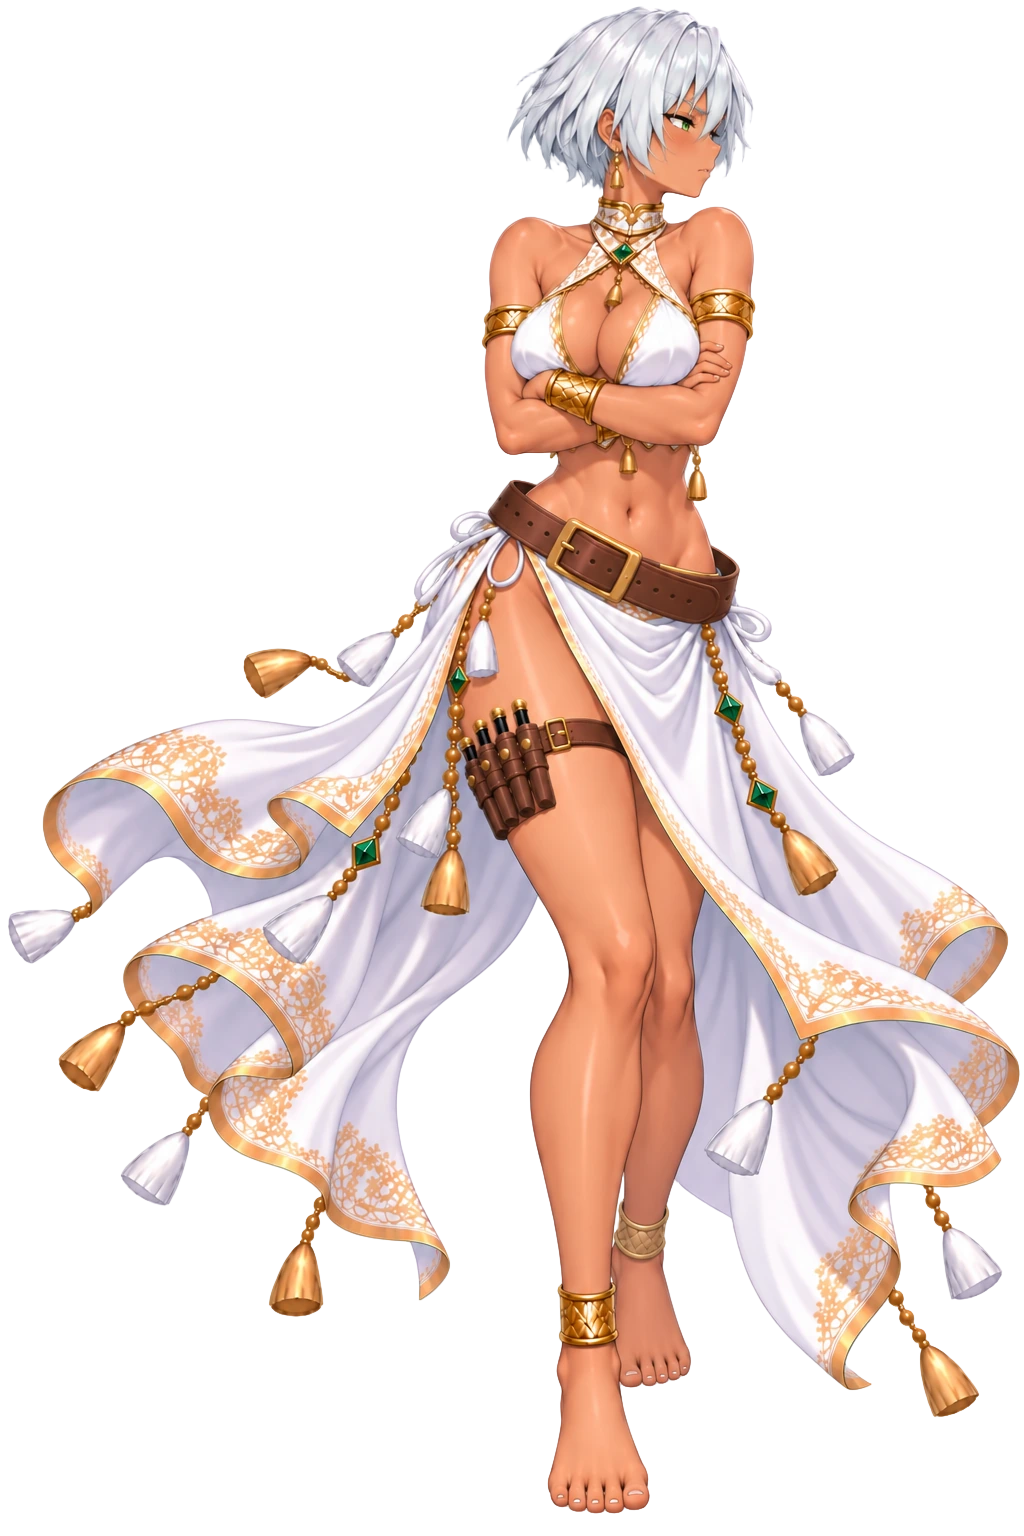
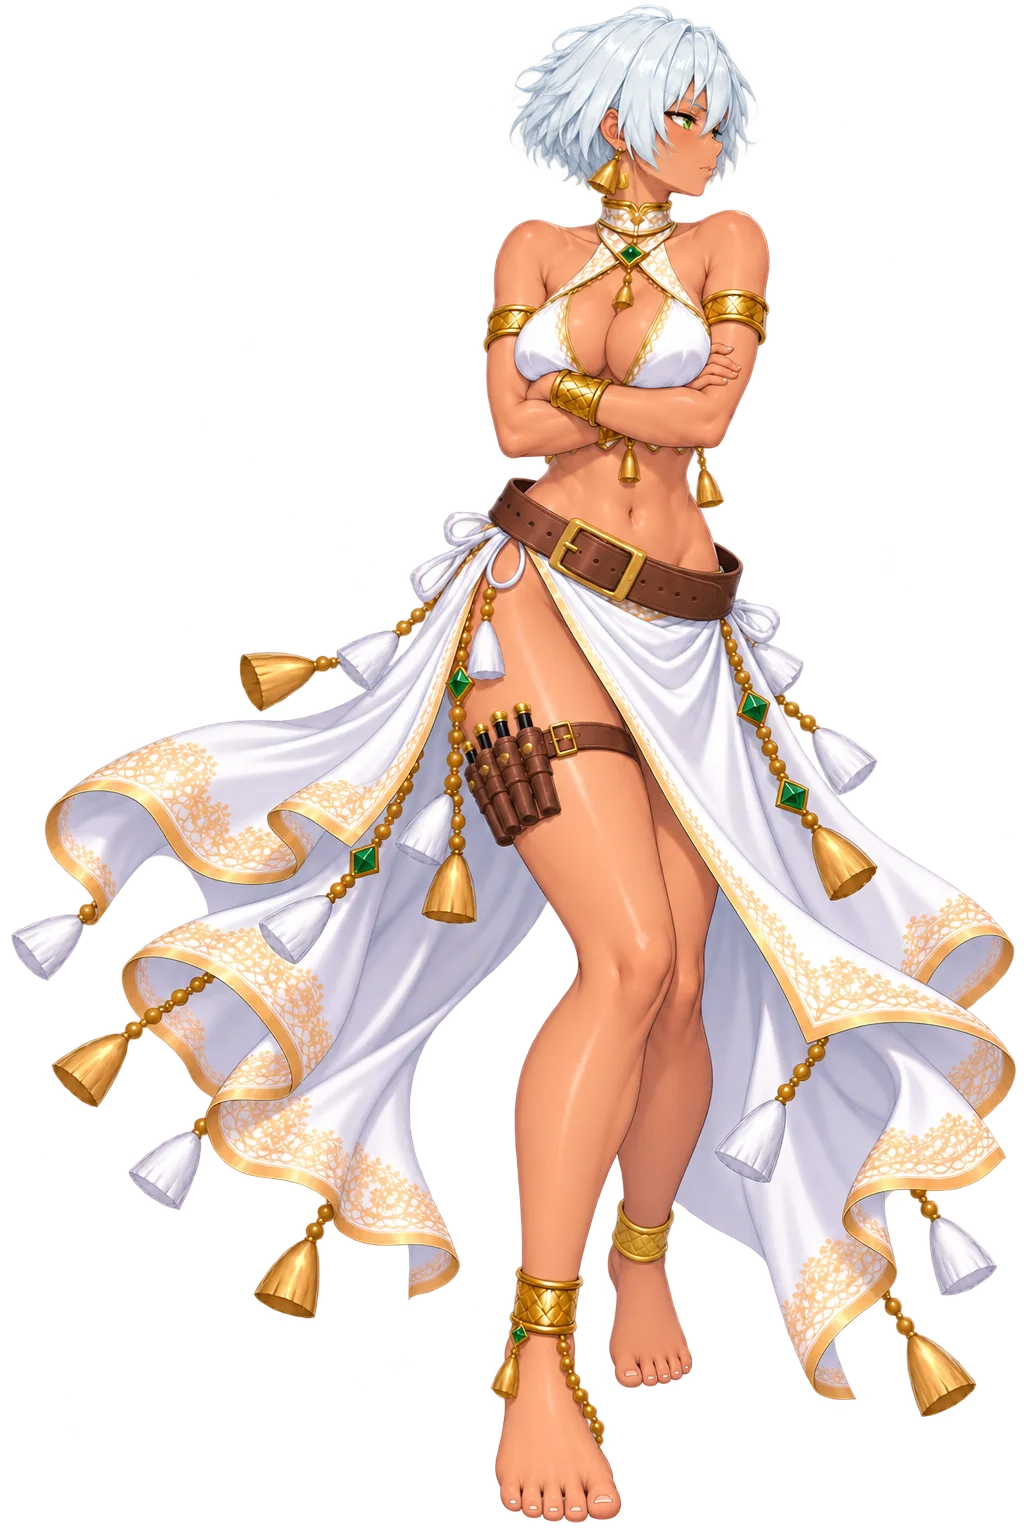
art(索拉娜): 補上 lookaway 新版（12/15）
· 額度用完前送出的那一則後來跑完了，收圖驗收通過
· 色相 217.8°／角落 alpha 0／近白 1.31%
· 工單同步：lookaway 也要掛 ?v=2，bot 1513 → 1521，fx 不動

Changed region(s): [[0.0, 0.0, 1.0, 1.0], [0.5625, 0.6875, 0.5938, 0.7188]]

diff --git a/resources/si/_sorana_program_worklist.md b/resources/si/_sorana_program_worklist.md
@@ -12,7 +12,7 @@ resources/si/sorana_si_determine.webp  resources/si/sorana_si_salute.webp
 resources/si/sorana_si_eat.webp        resources/si/sorana_si_serious.webp
 resources/si/sorana_si_nod.webp        resources/si/sorana_si_stare.webp
 resources/si/sorana_si_point.webp      resources/si/sorana_si_wave.webp
-                                       resources/si/sorana_si_worry.webp
+resources/si/sorana_si_lookaway.webp   resources/si/sorana_si_worry.webp
 ```
 
 ⚠ 這 11 個目前都**還沒有** `?v=`，所以是加 `?v=2`（同 `renna_si_scream` 的寫法）。
@@ -34,6 +34,7 @@ resources/si/sorana_si_point.webp      resources/si/sorana_si_wave.webp
 | stare | 11 → **7** | 1515 → **1527** |
 | wave | 3 → **9** | 1516 → **1526** |
 | worry | 0 → **5** | 1514 → **1519** |
+| lookaway | 5 → 5（不變） | 1513 → **1521** |
 
 ⚠⚠ **`fx` 保持原值，不要照我量的改。** 理由兩個：
 1. 新圖是**照舊圖的姿勢**重畫的（同一個姿勢 ⇒ 沿用，§5 的 -649）。
@@ -54,4 +55,4 @@ resources/si/sorana_si_point.webp      resources/si/sorana_si_wave.webp
 
 - 其餘索拉娜立繪（含 `battlecry`／`front`／`side`／`back` 與 read 系列）**這一輪沒換**。
 - Ray 交辦「舊索拉娜圖全部重製」還有 **46 張**沒做（清單在 `_sorana_regen_spec.md` §十）。
-- 這一輪還欠 4 張：`lookaway`／`relief`／`sleep`／`scare`（額度用完，明天 13:00 後接）。
+- 這一輪還欠 3 張：`relief`／`sleep`／`scare`（額度用完，明天 13:00 後接）。

diff --git a/resources/si/_sorana_regen_spec.md b/resources/si/_sorana_regen_spec.md
@@ -137,16 +137,16 @@
 
 # 九、進度（2026-09-20 收工）
 
-## ✅ 短提示詞版 11 張（**這批才是有效的**，檔名 `*_short.png`）
+## ✅ 短提示詞版 12 張（**這批才是有效的**，檔名 `*_short.png`）
 
-`cry` `determine` `eat` `nod` `point` `sad` `salute` `serious` `stare` `wave` `worry`
+`cry` `determine` `eat` `lookaway` `nod` `point` `sad` `salute` `serious` `stare` `wave` `worry`（12 張）
 
 四項驗收：色相 185.8~212.8° 全過／角落 α 全 0／近白 0.78~3.07%
 （白布多的那幾張偏高：`serious` 3.07%、`sad` 2.72%、`eat` 2.21% —— **未經 Ray 眼睛複核**）
 
-## ⚠ 還欠 4 張
+## ⚠ 還欠 3 張
 
-`lookaway`（送出了、沒收到圖）／`relief`／`sleep`／`scare`
+`relief`／`sleep`／`scare`
 
 **停工原因：ChatGPT 的圖片生成額度用完**，Ray 回報「請於明天下午 1:00 再試一次」。
 ⚠ 明天恢復後**直接接著跑這 4 張**，作法不用再試 —— 就是 §一之二 那三行。
